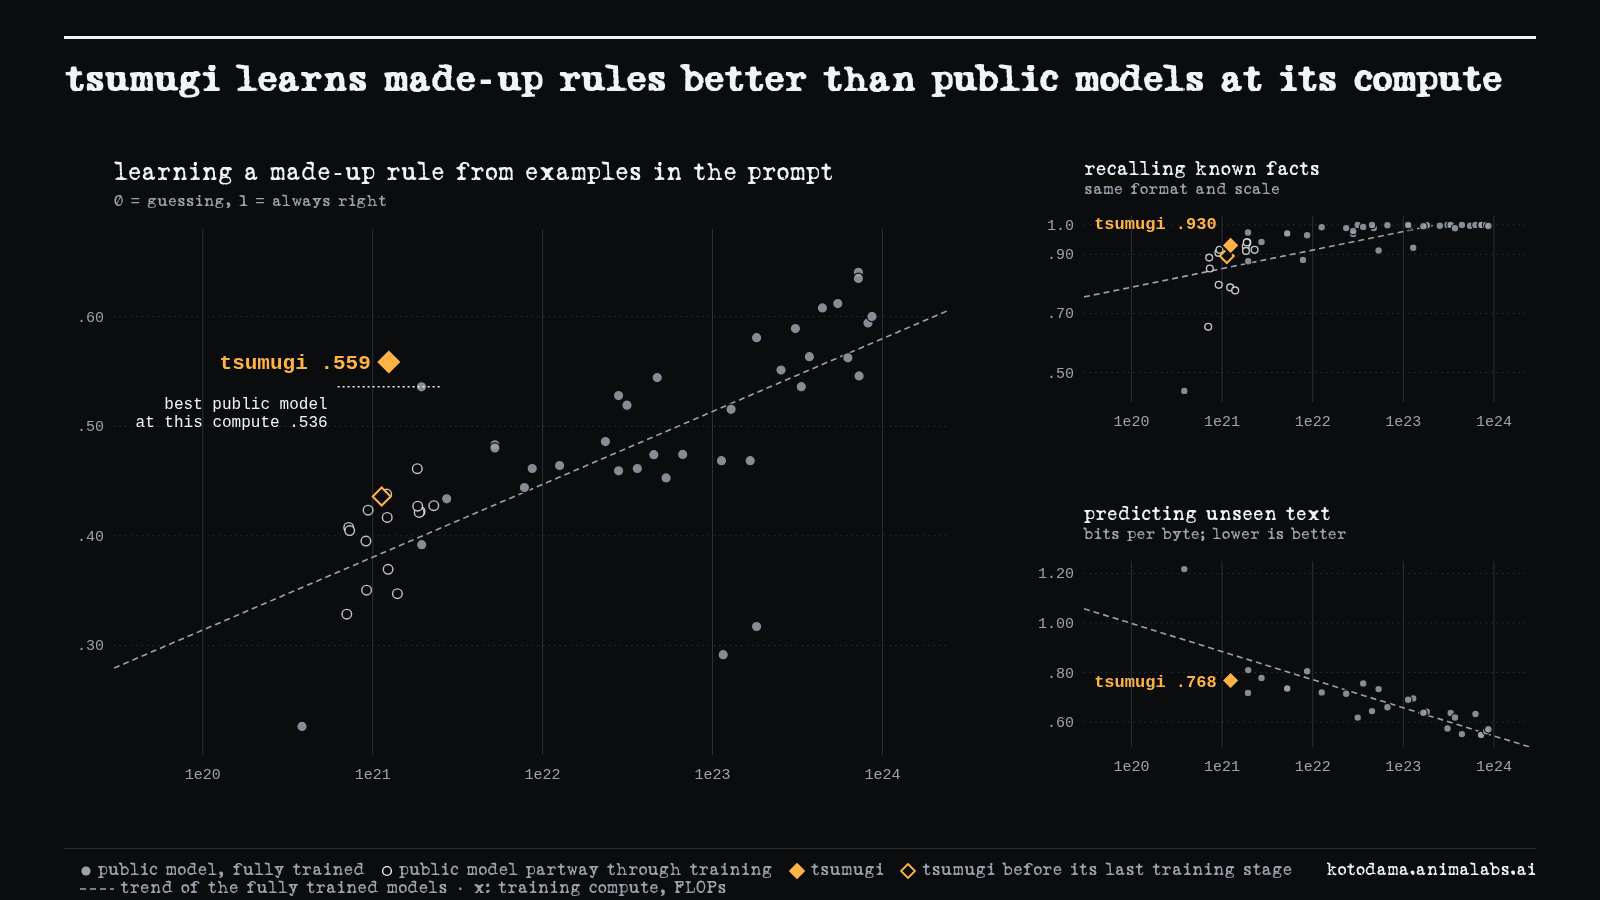
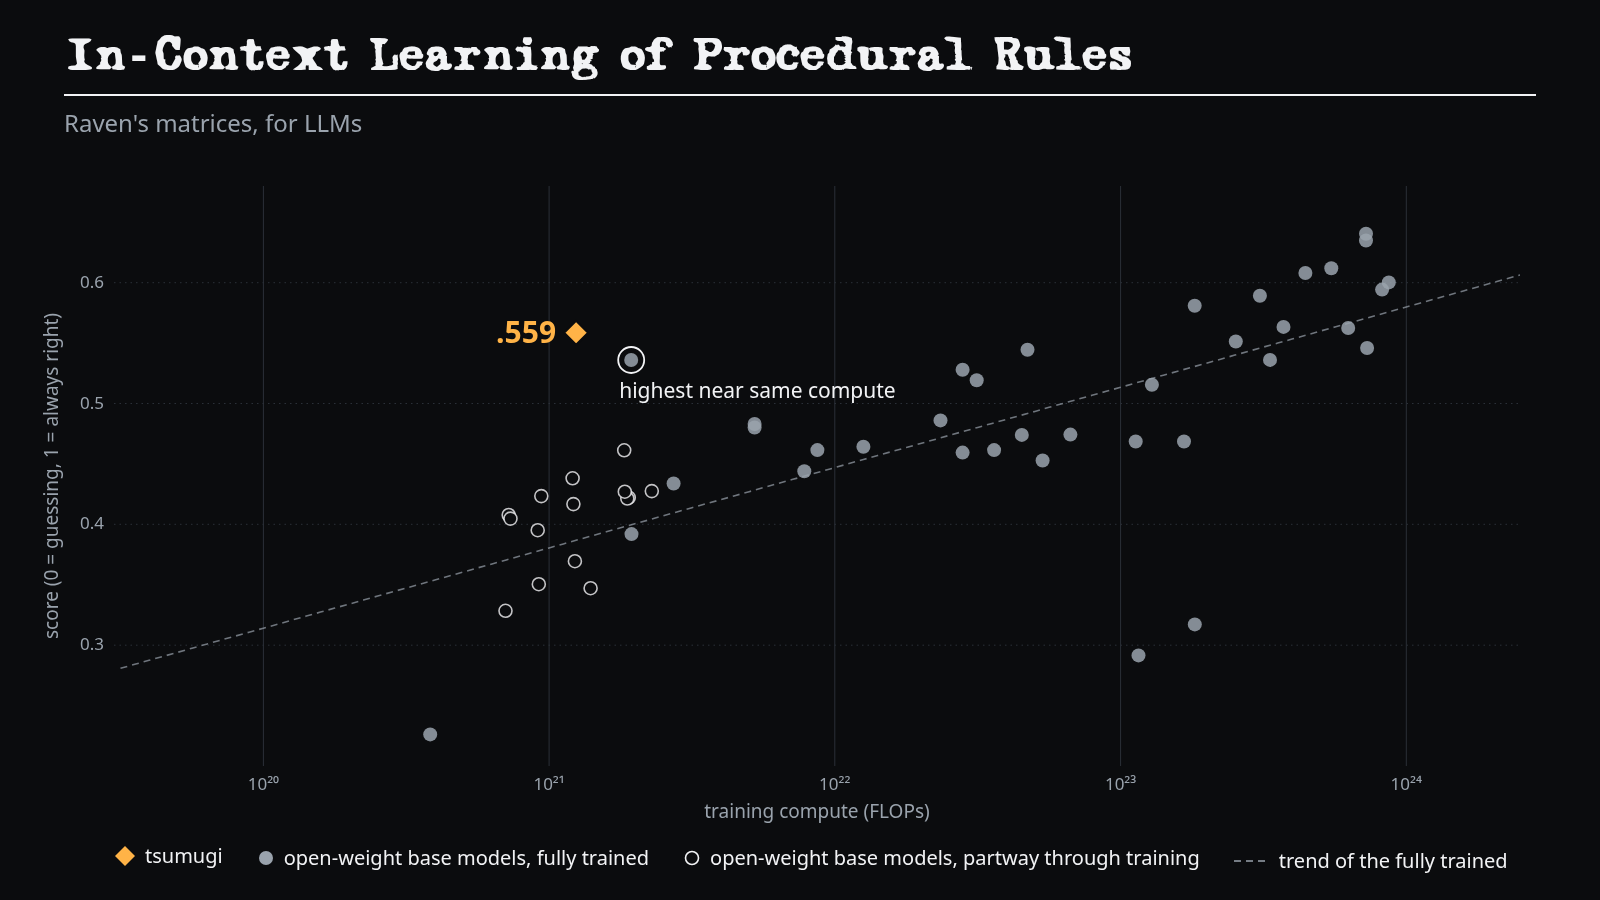
Deploy: hero v4 on the announcement (Luxia's spec: rule learning only, 'In-Context Learning of Procedural Rules' / 'Raven's matrices, for LLMs', open-weight base models); the lead and caption follow the one-panel figure (recall and held-out text named as the controls; Falcon3 3B .536, checkpoints ≤ 

diff --git a/site/index.html b/site/index.html
@@ -618,23 +618,20 @@ document.querySelectorAll(".story .cite").forEach(c => {
 </script>
 
   <div class="prose">
-    <p>The figure below compares tsumugi with public base models on three measures, against the compute that each spent in
-    training. Compute is about 6 × parameters × tokens, with tsumugi's repeated layers counted twice.
-    <b>New rules:</b> the prompt shows worked examples of an invented rule, such as an invented word ending, invented
-    operators or a nonsense pattern. The model then picks the answer to a new case. The score runs from 0 (chance) to 1 (always right).
-    <b>Recall:</b> questions about real facts, in the same worked-example format and scored the same way. <b>Held-out
-    text:</b> how well it predicts text published after its training data was collected, in bits per byte; lower is
-    better.</p>
+    <p>The figure below compares tsumugi with open-weight base models on learning a made-up rule from examples in the
+    prompt, against the compute that each spent in training. Compute is about 6 × parameters × tokens, with tsumugi's
+    repeated layers counted twice. The prompt shows worked examples of an invented rule, such as an invented word ending,
+    invented operators or a nonsense pattern. The model then picks the answer to a new case. The score runs from 0
+    (guessing) to 1 (always right). Two controls, scored the same way, appear in the results below. <b>Recall:</b>
+    questions about real facts, in the same worked-example format. <b>Held-out text:</b> how well a model predicts text
+    published after its training data was collected, in bits per byte; lower is better.</p>
   </div>
   <figure class="plate">
-    <a href="announce-data/figure.png"><img src="announce-data/figure.png" width="1600" height="900" alt="Three panels against training compute: new rules learned from the prompt, recall of facts in the same worked-example format, and held-out text in bits per byte. Filled dots are 36 public base models, open circles 15 public checkpoints taken partway through training at the same compute as kotodama-tsumugi. kotodama-tsumugi does better than the compute trend on all three, furthest on new rules (.559, against .536 for the best public model at the same compute and at most .461 for the checkpoints). An open orange diamond marks it before its final cooldown (.436)."></a>
-    <figcaption>Filled dots: 36 public base models. Open circles: 15 public checkpoints, taken partway through training,
-    that had spent the same compute as tsumugi. Dashed line: the trend of the fully trained public models. tsumugi, the orange diamond, does better
-    than the trend on all three and furthest on new rules. It scores .559 there, against .536 for the best public model at the
-    same compute (Falcon3 3B) and at most .461 for the checkpoints. The open orange diamond is tsumugi before its final cooldown, the closing
-    stretch of training where the learning rate decays. It scored .436 there, level with the checkpoints, which haven't
-    had their cooldown either. The fully trained models have had theirs, and after its own, tsumugi is above every one of
-    them at the same compute.</figcaption>
+    <a href="announce-data/figure.png"><img src="announce-data/figure.png" width="1600" height="900" alt="Learning a made-up rule from examples in the prompt, against training compute. Open-weight base models, fully trained (filled dots) and partway through training (open dots), with the trend of the fully trained. tsumugi, the yellow diamond, scores .559, above Falcon3 3B at .536, the highest near the same compute."></a>
+    <figcaption>Near the same training compute, the best fully trained open-weight model, Falcon3 3B, scores .536,
+    and checkpoints taken partway through training reach at most .461. Before its final cooldown, the closing stretch of
+    training where the learning rate decays, tsumugi scored .436, level with those checkpoints, which haven't had their
+    cooldown either.</figcaption>
   </figure>
 
   <h2>Results</h2>
@@ -746,7 +743,7 @@ document.querySelectorAll(".story .cite").forEach(c => {
 </div>
 <footer><div class="wrap">
   <span>Companion pages: <a href="https://huggingface.co/LuxiaSL/kotodama-tsumugi-1b">the model card</a> · <a href="binding-atlas">every public model's results on who-is-who tests</a> · <a href="threads">a map of tsumugi's neurons</a> · <a href="empty-document">what it writes from an empty page</a>.</span>
-  <span class="num" id="stamp">build 2026-11-06 23:08 UTC</span>
+  <span class="num" id="stamp">build 2026-11-07 02:12 UTC</span>
 </div></footer>
 </body>
 </html>

diff --git a/page/announce_page.html b/page/announce_page.html
@@ -110,23 +110,20 @@ __TOC__
 __STORY__
 
   <div class="prose">
-    <p>The figure below compares tsumugi with public base models on three measures, against the compute that each spent in
-    training. Compute is about 6 × parameters × tokens, with tsumugi's repeated layers counted twice.
-    <b>New rules:</b> the prompt shows worked examples of an invented rule, such as an invented word ending, invented
-    operators or a nonsense pattern. The model then picks the answer to a new case. The score runs from 0 (chance) to 1 (always right).
-    <b>Recall:</b> questions about real facts, in the same worked-example format and scored the same way. <b>Held-out
-    text:</b> how well it predicts text published after its training data was collected, in bits per byte; lower is
-    better.</p>
+    <p>The figure below compares tsumugi with open-weight base models on learning a made-up rule from examples in the
+    prompt, against the compute that each spent in training. Compute is about 6 × parameters × tokens, with tsumugi's
+    repeated layers counted twice. The prompt shows worked examples of an invented rule, such as an invented word ending,
+    invented operators or a nonsense pattern. The model then picks the answer to a new case. The score runs from 0
+    (guessing) to 1 (always right). Two controls, scored the same way, appear in the results below. <b>Recall:</b>
+    questions about real facts, in the same worked-example format. <b>Held-out text:</b> how well a model predicts text
+    published after its training data was collected, in bits per byte; lower is better.</p>
   </div>
   <figure class="plate">
-    <a href="__FIGURE__"><img src="__FIGURE__" width="1600" height="900" alt="Three panels against training compute: new rules learned from the prompt, recall of facts in the same worked-example format, and held-out text in bits per byte. Filled dots are 36 public base models, open circles 15 public checkpoints taken partway through training at the same compute as kotodama-tsumugi. kotodama-tsumugi does better than the compute trend on all three, furthest on new rules (.559, against .536 for the best public model at the same compute and at most .461 for the checkpoints). An open orange diamond marks it before its final cooldown (.436)."></a>
-    <figcaption>Filled dots: 36 public base models. Open circles: 15 public checkpoints, taken partway through training,
-    that had spent the same compute as tsumugi. Dashed line: the trend of the fully trained public models. tsumugi, the orange diamond, does better
-    than the trend on all three and furthest on new rules. It scores .559 there, against .536 for the best public model at the
-    same compute (Falcon3 3B) and at most .461 for the checkpoints. The open orange diamond is tsumugi before its final cooldown, the closing
-    stretch of training where the learning rate decays. It scored .436 there, level with the checkpoints, which haven't
-    had their cooldown either. The fully trained models have had theirs, and after its own, tsumugi is above every one of
-    them at the same compute.</figcaption>
+    <a href="__FIGURE__"><img src="__FIGURE__" width="1600" height="900" alt="Learning a made-up rule from examples in the prompt, against training compute. Open-weight base models, fully trained (filled dots) and partway through training (open dots), with the trend of the fully trained. tsumugi, the yellow diamond, scores .559, above Falcon3 3B at .536, the highest near the same compute."></a>
+    <figcaption>Near the same training compute, the best fully trained open-weight model, Falcon3 3B, scores .536,
+    and checkpoints taken partway through training reach at most .461. Before its final cooldown, the closing stretch of
+    training where the learning rate decays, tsumugi scored .436, level with those checkpoints, which haven't had their
+    cooldown either.</figcaption>
   </figure>
 
   <h2>Results</h2>
